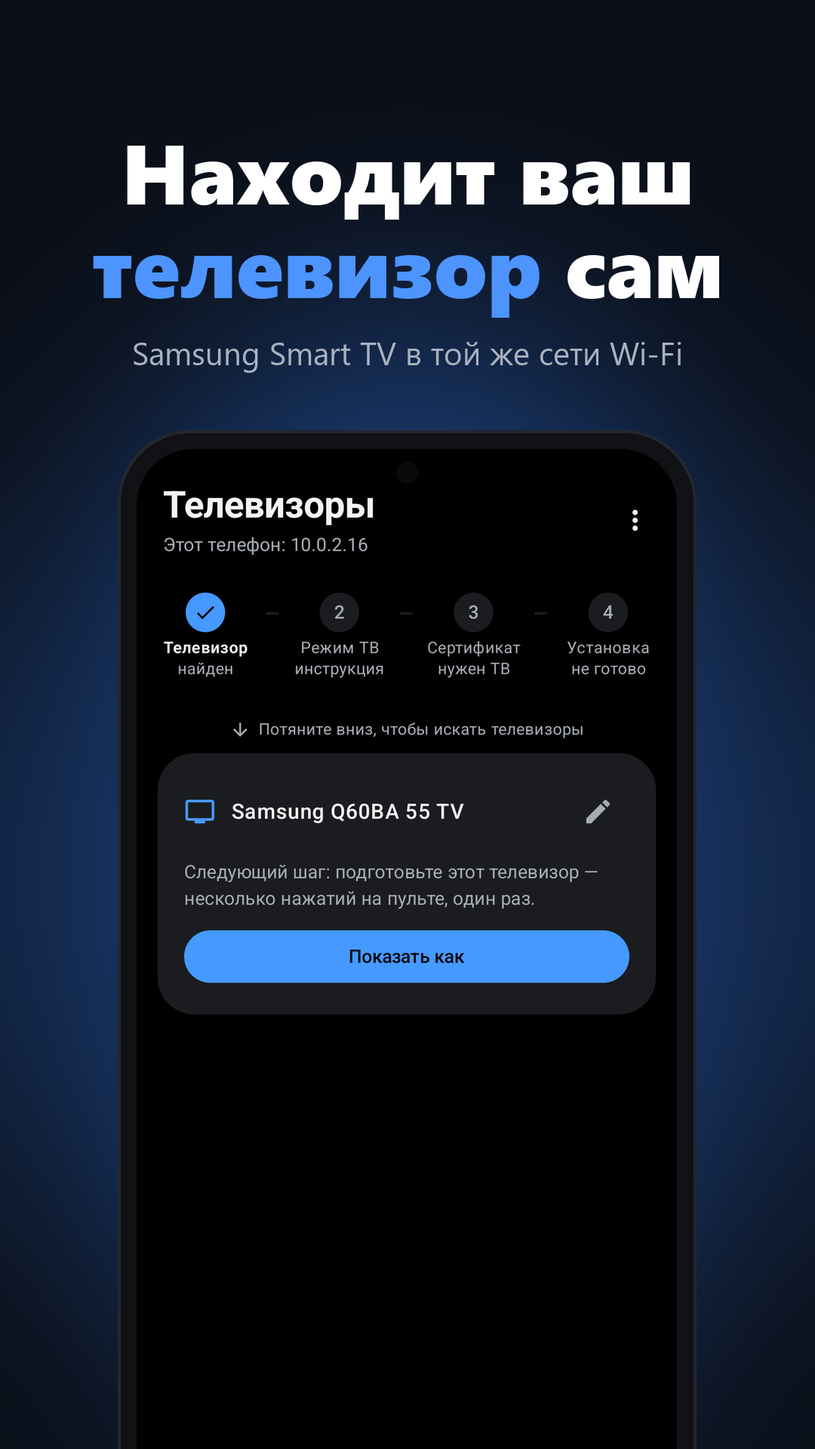
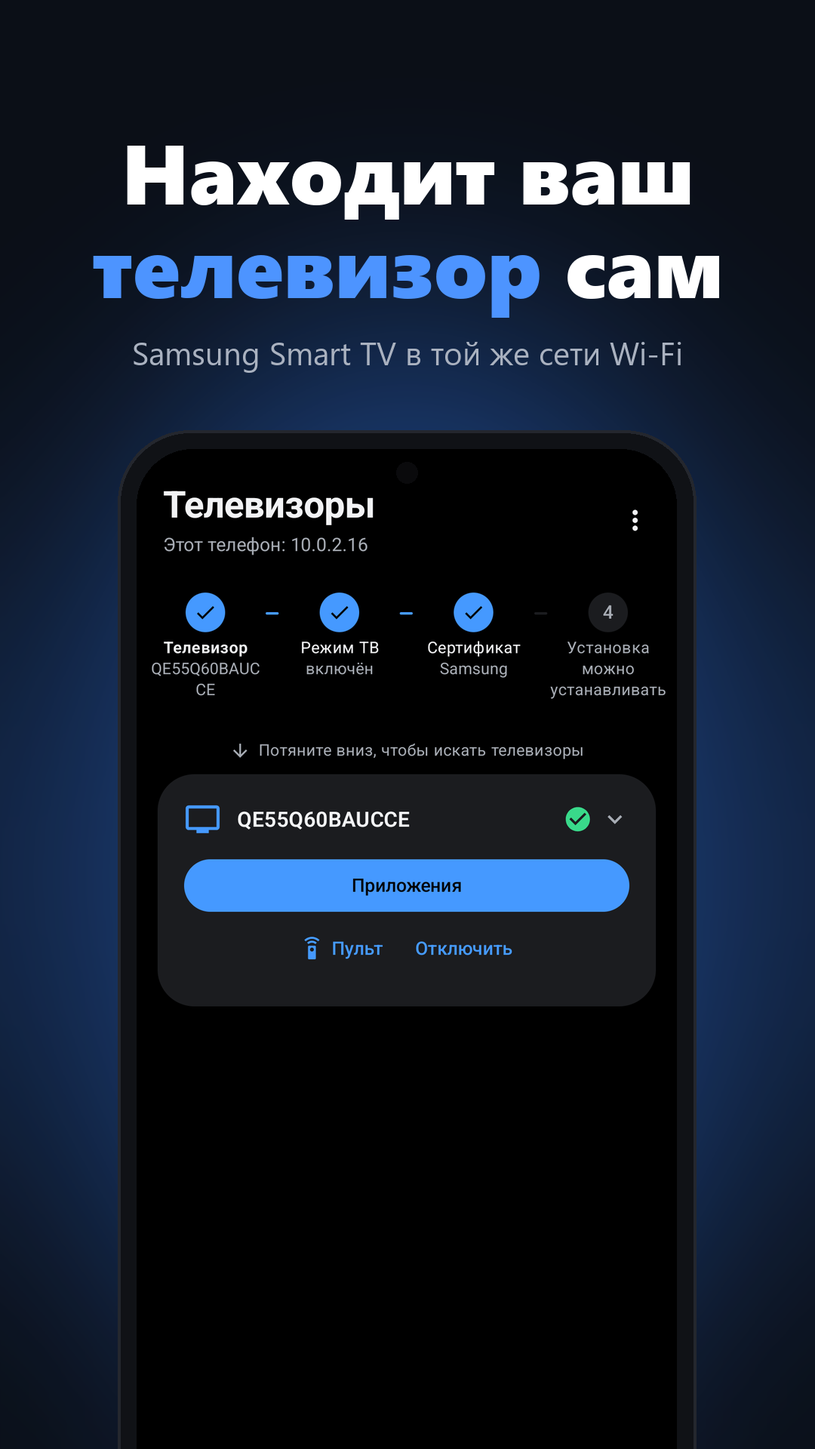
Витрина 2.2.6: новые скриншоты и описание
- Новые карточки (9 шт.) на русском, английском и узбекском: docs/screenshots/, en/, uz/
- README.md и README.ru.md: возможности версии 2.2.6, сетка из 9 скриншотов, ссылка на O'zbekcha
- README.uz.md — описание на узбекском
- Сайт docs/index.html: новые карточки, список возможностей, раздел O'zbekcha
- docs/social.png — превью с актуальным экраном приложения

diff --git a/docs/index.html b/docs/index.html
@@ -4,7 +4,7 @@
 <meta charset="utf-8">
 <meta name="viewport" content="width=device-width, initial-scale=1">
 <title>TV Installer — install apps on Samsung Smart TV from your phone</title>
-<meta name="description" content="Free Android app: install .wgt apps (Lampa, Jellyfin, Kodi, Plex, Moonlight…) on Samsung Smart TV (Tizen) from your phone — no PC, no Tizen Studio. Установка приложений на телевизор Samsung с телефона.">
+<meta name="description" content="Free Android app: install .wgt apps (Lampa, Jellyfin, Kodi, Plex, Moonlight…) on Samsung Smart TV (Tizen) from your phone — no PC, no Tizen Studio. Установка приложений на телевизор Samsung с телефона. Samsung televizoriga telefondan ilova o&#39;rnatish.">
 <meta name="keywords" content="Samsung TV install apps, Tizen sideload, install wgt Samsung TV, Tizen Studio alternative, Samsung developer mode, Lampa Samsung, установка приложений на Samsung TV, wgt Tizen">
 <meta property="og:title" content="TV Installer — install apps on Samsung Smart TV from your phone">
 <meta property="og:description" content="No PC, no Tizen Studio. Finds your TV, gets the Samsung certificate and installs .wgt apps.">
@@ -49,30 +49,34 @@
       no PC, no Tizen Studio. Free.</p>
     <a class="btn" href="https://github.com/sunic007/tvinstaller/releases/latest/download/TvInstaller.apk">⬇ Download APK</a>
     <a class="btn ghost" href="https://github.com/sunic007/tvinstaller">GitHub</a>
-    <div class="lang">Android 7.0+ · English &amp; Russian · <a href="#ru" style="color:inherit">Русский ↓</a></div>
+    <div class="lang">Android 7.0+ · English · Русский · O'zbekcha · <a href="#ru" style="color:inherit">Русский ↓</a> · <a href="#uz" style="color:inherit">O'zbekcha ↓</a></div>
   </div>
 </header>
 
 <div class="wrap">
   <div class="shots">
     <img src="screenshots/en/01.png" alt="Finds your TV by itself" loading="lazy">
-    <img src="screenshots/en/02.png" alt="Shows what to press on the TV" loading="lazy">
+    <img src="screenshots/en/02.png" alt="Can&#39;t connect? We&#39;ll help" loading="lazy">
     <img src="screenshots/en/03.png" alt="Certificate just once" loading="lazy">
-    <img src="screenshots/en/04.png" alt="Catalog of 45+ TV apps" loading="lazy">
-    <img src="screenshots/en/05.png" alt="Lampa always fresh" loading="lazy">
-    <img src="screenshots/en/06.png" alt="English and Russian" loading="lazy">
-    <img src="screenshots/en/07.png" alt="All in one place" loading="lazy">
+    <img src="screenshots/en/04.png" alt="Catalog of 40+ TV apps" loading="lazy">
+    <img src="screenshots/en/05.png" alt="Install in one tap" loading="lazy">
+    <img src="screenshots/en/06.png" alt="Your TV apps at hand" loading="lazy">
+    <img src="screenshots/en/07.png" alt="TV remote in your phone" loading="lazy">
+    <img src="screenshots/en/08.png" alt="Lampa always fresh" loading="lazy">
+    <img src="screenshots/en/09.png" alt="Three languages" loading="lazy">
   </div>
 
   <section>
     <h2>What it does</h2>
     <div class="grid">
-      <div class="card"><b>📡 Finds your TV</b><p>Any Samsung Tizen TV on the same Wi‑Fi.</p></div>
-      <div class="card"><b>🎬 Shows what to press</b><p>Animated step-by-step Developer Mode guide, following Samsung's own.</p></div>
-      <div class="card"><b>🔐 Certificate in one tap</b><p>Sign in with your Samsung account once — no PC needed.</p></div>
-      <div class="card"><b>📦 45+ TV apps</b><p>Media centers, players, streaming, IPTV — or your own <code>.wgt</code>.</p></div>
-      <div class="card"><b>🔄 Always up to date</b><p>Lampa comes from its latest GitHub release; the app updates itself too.</p></div>
-      <div class="card"><b>🧾 Install log</b><p>Every step is visible; certificates can be backed up to a file.</p></div>
+      <div class="card"><b>📡 Finds your TV</b><p>Any Samsung Tizen TV on the same Wi‑Fi — and you can use several TVs.</p></div>
+      <div class="card"><b>🩺 “Can't connect?” wizard</b><p>Checks Wi‑Fi, the TV, Developer Mode and the address on the TV step by step, and says what to fix.</p></div>
+      <div class="card"><b>🔐 Certificate just once</b><p>Sign in with your Samsung account — no PC. A reminder before it expires, one-tap renewal, backup and restore.</p></div>
+      <div class="card"><b>📦 40+ TV apps</b><p>Media centers, players, streaming, IPTV, with Recommended picks — or your own <code>.wgt</code>.</p></div>
+      <div class="card"><b>⚡ One tap</b><p>Install with every step visible, then “Open on TV”. Open, Remove and “Update all” in the On TV list.</p></div>
+      <div class="card"><b>🎮 Remote &amp; power on</b><p>A TV remote in your phone, and turning the TV on over the network (Wake-on-LAN).</p></div>
+      <div class="card"><b>🔄 Always up to date</b><p>Lampa comes from its latest GitHub release; TV Installer updates itself without a browser.</p></div>
+      <div class="card"><b>🌐 Three languages</b><p>English, Русский and O'zbekcha — follows your phone or pick one.</p></div>
     </div>
   </section>
 
@@ -89,10 +93,23 @@
     <h2>По-русски</h2>
     <p><b>TV Installer</b> — бесплатное Android-приложение: ставит приложения <code>.wgt</code> на телевизоры Samsung (Tizen)
       прямо с телефона, без компьютера и Tizen Studio. Само находит ТВ, получает сертификат Samsung и устанавливает
-      приложение; анимация показывает, что нажать на пульте. Интерфейс — на русском и английском.</p>
+      приложение; анимация показывает, что нажать на пульте. Мастер «Не подключается?» помогает наладить связь, о продлении
+      сертификата приложение напомнит само. Каталог из 40+ приложений с подборкой «Рекомендуем», «Обновить всё» и
+      «Открыть на ТВ» в одно касание, пульт и включение ТВ с телефона. Интерфейс — на русском, английском и узбекском.</p>
     <p>Главное приложение каталога — <a href="https://github.com/sunic007/lampa-samsung">Lampa для Samsung</a>
       с Telegram-ботом и автообновлением.</p>
     <a class="btn" href="https://github.com/sunic007/tvinstaller/releases/latest/download/TvInstaller.apk">⬇ Скачать APK</a>
+  </section>
+
+  <section class="ru" id="uz" lang="uz">
+    <h2>O'zbekcha</h2>
+    <p><b>TV Installer</b> — bepul Android ilova: Samsung (Tizen) televizorlariga <code>.wgt</code> ilovalarni to'g'ridan-to'g'ri
+      telefondan, kompyuter va Tizen Studio'siz o'rnatadi. Televizorni o'zi topadi, Samsung sertifikatini oladi va ilovani
+      o'rnatadi. «Ulanmayaptimi?» yordamchisi ulanishni sozlashga yordam beradi, sertifikat muddati tugashidan oldin eslatadi.
+      40+ ilovali katalog va «Tavsiya etamiz» to'plami, «Hammasini yangilash» va «TV'da ochish» — bir bosishda; pult va
+      televizorni telefondan yoqish. Interfeys o'zbek, rus va ingliz tillarida.</p>
+    <p><a href="https://github.com/sunic007/tvinstaller/blob/main/README.uz.md">Batafsil — README.uz.md</a></p>
+    <a class="btn" href="https://github.com/sunic007/tvinstaller/releases/latest/download/TvInstaller.apk">⬇ APK'ni yuklab olish</a>
   </section>
 </div>
 
@@ -104,6 +121,8 @@
 <footer>
   <a href="https://github.com/sunic007/tvinstaller">GitHub</a> ·
   <a href="https://github.com/sunic007/tvinstaller/blob/main/CHANGELOG.md">What's new</a> ·
+  <a href="https://github.com/sunic007/tvinstaller/blob/main/README.ru.md">Русский</a> ·
+  <a href="https://github.com/sunic007/tvinstaller/blob/main/README.uz.md">O'zbekcha</a> ·
   <a href="https://github.com/sunic007/lampa-samsung">Lampa for Samsung</a> ·
   <a href="https://sunic007.github.io/tvinstaller/privacy.html">Privacy</a> ·
   <a href="https://github.com/sponsors/sunic007">❤ Sponsor</a>

diff --git a/README.ru.md b/README.ru.md
@@ -1,8 +1,8 @@
 # TV Installer — установка приложений на Samsung Smart TV с телефона
 
-[![Release](https://img.shields.io/github/v/release/sunic007/tvinstaller?label=release&color=3d8bff)](https://github.com/sunic007/tvinstaller/releases/latest) [![Downloads](https://img.shields.io/github/downloads/sunic007/tvinstaller/total?color=2ea043)](https://github.com/sunic007/tvinstaller/releases) ![Android](https://img.shields.io/badge/Android-7.0%2B-3ddc84?logo=android&logoColor=white) ![Tizen TV](https://img.shields.io/badge/Tizen-TV-1428a0) ![Languages](https://img.shields.io/badge/UI-English%20%7C%20Русский-8a63d2)
+[![Release](https://img.shields.io/github/v/release/sunic007/tvinstaller?label=release&color=3d8bff)](https://github.com/sunic007/tvinstaller/releases/latest) [![Downloads](https://img.shields.io/github/downloads/sunic007/tvinstaller/total?color=2ea043)](https://github.com/sunic007/tvinstaller/releases) ![Android](https://img.shields.io/badge/Android-7.0%2B-3ddc84?logo=android&logoColor=white) ![Tizen TV](https://img.shields.io/badge/Tizen-TV-1428a0) ![Languages](https://img.shields.io/badge/UI-English%20%7C%20Русский%20%7C%20O'zbekcha-8a63d2)
 
-[English](README.md) · **Русский**
+[English](README.md) · **Русский** · [O'zbekcha](README.uz.md)
 
 Android-приложение для установки приложений `.wgt` на телевизоры **Samsung (Tizen)** прямо с телефона — без компьютера
 и Tizen Studio. Подписывает пакет само и ставит его на ТВ по Wi-Fi.
@@ -17,21 +17,45 @@ Android-приложение для установки приложений `.wg
 ставит её последнюю версию прямо из релизов GitHub, дальше она обновляется на телевизоре сама.
 
 <p align="center">
-  <img src="docs/screenshots/01.png" width="23%">
-  <img src="docs/screenshots/02.png" width="23%">
-  <img src="docs/screenshots/03.png" width="23%">
-  <img src="docs/screenshots/04.png" width="23%">
+  <img src="docs/screenshots/01.png" width="30%">
+  <img src="docs/screenshots/02.png" width="30%">
+  <img src="docs/screenshots/03.png" width="30%">
 </p>
 <p align="center">
-  <img src="docs/screenshots/05.png" width="23%">
-  <img src="docs/screenshots/06.png" width="23%">
-  <img src="docs/screenshots/07.png" width="23%">
+  <img src="docs/screenshots/04.png" width="30%">
+  <img src="docs/screenshots/05.png" width="30%">
+  <img src="docs/screenshots/06.png" width="30%">
 </p>
+<p align="center">
+  <img src="docs/screenshots/07.png" width="30%">
+  <img src="docs/screenshots/08.png" width="30%">
+  <img src="docs/screenshots/09.png" width="30%">
+</p>
+
+## Возможности
+
+- **Сам находит телевизор** в той же сети Wi-Fi; можно работать с несколькими ТВ.
+- **Мастер «Не подключается?»** по шагам проверяет Wi-Fi, телевизор, режим разработчика и адрес, указанный на ТВ, и
+  прямо говорит, если ТВ настроен на другое устройство (ставить приложения на Samsung может только один телефон или
+  компьютер за раз).
+- **Анимация по шагам**: что нажать на пульте, чтобы включить режим разработчика, — как в инструкции Samsung.
+- **Сертификат Samsung один раз** — вход в аккаунт Samsung, без компьютера и Tizen Studio. За месяц до окончания
+  придёт напоминание, продление — в одно нажатие; есть резервная копия и **восстановление из неё**.
+- **Каталог из 40+ приложений** — медиатеки, плееры, стриминг, IPTV — и подборка **«Рекомендуем»**; можно поставить
+  и свой `.wgt` из файла или по ссылке. Для вариантов одного приложения
+  (сборки Jellyfin, Moonlight) объяснено, чем они отличаются.
+- **Установка в одно касание**, каждый шаг виден, потом — **«Открыть на ТВ»**. В списке **«На ТВ»** — **«Открыть /
+  Удалить»** и **«Обновить всё»**; раз в день приходит уведомление, если вышли обновления.
+- **Пульт** в телефоне и **включение телевизора с телефона** (Wake-on-LAN).
+- **[Lampa для Samsung](https://github.com/sunic007/lampa-samsung)** ставится из последнего релиза на GitHub и дальше
+  обновляется на телевизоре сама.
+- **Самообновление без браузера**: приложение само скачивает новую версию, проверяет её и открывает установку Android.
+- **Три языка**: русский, English, O'zbekcha.
 
 ## Что нужно
 
-- Телефон на Android и телевизор Samsung с Tizen — в одной Wi-Fi сети.
-- Файл `.wgt` — например, [Lampa для Samsung](https://github.com/sunic007/lampa-samsung/releases/latest/download/samsung.wgt).
+- Телефон на Android 7.0+ и телевизор Samsung с Tizen — в одной Wi-Fi сети (не гостевой).
+- Бесплатный аккаунт Samsung (для сертификата установки).
 
 ## Как установить приложение на ТВ
 
@@ -41,17 +65,20 @@ Android-приложение для установки приложений `.wg
    Перезагрузите телевизор (кнопку питания держать ~2 секунды). В приложении это показано анимацией по шагам.
 3. **Установите TV Installer** на телефон: скачайте APK и откройте его (Android попросит разрешить установку из
    этого источника).
-4. В TV Installer выберите **телевизор** и **файл `.wgt`** — приложение подпишет пакет и установит его.
+4. В TV Installer выберите **телевизор**, один раз войдите в **Samsung** за сертификатом и выберите приложение из
+   каталога или свой **файл `.wgt`** — TV Installer подпишет пакет и установит его.
 5. Новые версии ставятся поверх старых, настройки приложения на ТВ сохраняются.
 
 ## Частые вопросы
 
-**ТВ не находится.** Проверьте, что телефон и ТВ в одной сети, а в режиме разработчика на ТВ указан IP именно
+**ТВ не находится или не подключается.** Откройте меню ⋮ → «Не подключается?» — мастер проверит всё по
+шагам. Проверьте также, что телефон и ТВ в одной сети, а в режиме разработчика на ТВ указан IP именно
 телефона. После смены IP — снова перезагрузите ТВ.
 
 **Ошибка подписи или установки.** Удалите старую версию приложения на ТВ и установите заново.
 
-**Безопасно ли.** Приложение работает только в вашей домашней сети, данные никуда не отправляет — подробнее в
+**Безопасно ли.** С телевизором приложение общается только внутри домашней сети; к Samsung обращается только за
+сертификатом, к GitHub — за приложениями. Подробнее — в
 [политике конфиденциальности](https://sunic007.github.io/tvinstaller/privacy.html).
 
 ## Отказ от ответственности

diff --git a/README.uz.md b/README.uz.md
@@ -1,0 +1,92 @@
+# TV Installer — Samsung Smart TV'ga telefondan ilova o'rnatish
+
+[![Release](https://img.shields.io/github/v/release/sunic007/tvinstaller?label=release&color=3d8bff)](https://github.com/sunic007/tvinstaller/releases/latest) [![Downloads](https://img.shields.io/github/downloads/sunic007/tvinstaller/total?color=2ea043)](https://github.com/sunic007/tvinstaller/releases) ![Android](https://img.shields.io/badge/Android-7.0%2B-3ddc84?logo=android&logoColor=white) ![Tizen TV](https://img.shields.io/badge/Tizen-TV-1428a0)
+
+[English](README.md) · [Русский](README.ru.md) · **O'zbekcha**
+
+**Samsung (Tizen)** televizorlariga `.wgt` ilovalarni to'g'ridan-to'g'ri telefondan o'rnatadigan Android ilova —
+kompyuter va Tizen Studio kerak emas. Televizorni Wi‑Fi tarmog'ida o'zi topadi, Samsung sertifikatini oladi, paketni
+imzolaydi va o'rnatadi.
+
+**⬇ [TvInstaller.apk'ni yuklab olish](https://github.com/sunic007/tvinstaller/releases/latest/download/TvInstaller.apk)** — oxirgi versiya
+· barcha versiyalar — [Releases](https://github.com/sunic007/tvinstaller/releases)
+· yangiliklar — [CHANGELOG.md](CHANGELOG.md)
+· [maxfiylik siyosati](https://sunic007.github.io/tvinstaller/privacy.html)
+· ❤ [loyihani qo'llab-quvvatlash](https://github.com/sponsors/sunic007)
+
+> Ilova **o'zbek, rus va ingliz** tillarida ishlaydi: telefon tiliga moslashadi, tilni Sozlamalar → Язык · Language ·
+> Til bo'limida o'zgartirish mumkin.
+
+<p align="center">
+  <img src="docs/screenshots/uz/01.png" width="30%">
+  <img src="docs/screenshots/uz/02.png" width="30%">
+  <img src="docs/screenshots/uz/03.png" width="30%">
+</p>
+<p align="center">
+  <img src="docs/screenshots/uz/04.png" width="30%">
+  <img src="docs/screenshots/uz/05.png" width="30%">
+  <img src="docs/screenshots/uz/06.png" width="30%">
+</p>
+<p align="center">
+  <img src="docs/screenshots/uz/07.png" width="30%">
+  <img src="docs/screenshots/uz/08.png" width="30%">
+  <img src="docs/screenshots/uz/09.png" width="30%">
+</p>
+
+## Imkoniyatlar
+
+- **Televizorni o'zi topadi** — bir xil Wi‑Fi tarmog'ida; bir nechta televizor bilan ishlash mumkin.
+- **«Ulanmayaptimi?» yordamchisi** Wi‑Fi, televizor, dasturchi rejimi va televizordagi manzilni bosqichma-bosqich
+  tekshiradi. Televizor boshqa qurilmaga sozlangan bo'lsa, buni aniq aytadi (Samsung televizoriga bir vaqtda faqat
+  bitta telefon yoki kompyuter ilova o'rnata oladi).
+- **Sertifikat bir marta olinadi** — Samsung akkaunti orqali, kompyutersiz. Muddati tugashidan bir oy oldin eslatma
+  keladi, yangilash — bir bosishda; zaxira nusxa saqlash va **zaxiradan tiklash** mumkin.
+- **40+ ilovali katalog** — mediatekalar, pleyerlar, striming, IPTV — va **«Tavsiya etamiz»** to'plami. O'zingizning
+  `.wgt` faylingizni yoki havolani ham o'rnatish mumkin.
+- **Bir bosishda o'rnatish**: har bir qadam ko'rinadi, oxirida — **«TV'da ochish»**. **«TV'da»** ro'yxatida —
+  **«Ochish / O'chirish»** va **«Hammasini yangilash»**; yangilanishlar chiqsa, kuniga bir marta bildirishnoma keladi.
+- **Pult telefoningizda** va **televizorni telefondan yoqish** (Wake-on-LAN).
+- **[Lampa for Samsung](https://github.com/sunic007/lampa-samsung)** GitHub'dagi oxirgi relizdan o'rnatiladi va keyin
+  televizorda o'zi yangilanadi.
+- **Brauzersiz o'zini yangilaydi**: yangi versiyani o'zi yuklab oladi, tekshiradi va Android o'rnatuvchisini ochadi.
+
+## Nima kerak
+
+- Android 7.0+ telefon va Tizen'li Samsung Smart TV — bir xil Wi‑Fi tarmog'ida (mehmon tarmog'i emas).
+- Bepul Samsung akkaunti (o'rnatish sertifikati uchun).
+
+## Televizorga ilova qanday o'rnatiladi
+
+1. **Televizorda dasturchi rejimini yoqing:** **Apps** bo'limini oching → pastda **App Settings** → pultda
+   `1 2 3 4 5` ni tering → **Developer mode**'ni **On** qiling, telefon IP manzilini kiriting (TV Installer uni
+   «Televizorlar» ekranining tepasida ko'rsatadi) va **OK** ni bosing.
+2. **Televizorni qayta yoqing:** yoqish tugmasini ~2 soniya bosib turing. Qayta yoqilgandan keyin **App Settings**
+   tepasida **DEVELOP MODE** yozuvi chiqadi.
+3. **TV Installer'ni** telefonga o'rnating: APK'ni yuklab oling va oching (Android bu manbadan o'rnatishga ruxsat
+   so'raydi).
+4. TV Installer'da **televizorni** tanlang, sertifikat uchun bir marta **Samsung**'ga kiring va katalogdan ilova yoki
+   o'z `.wgt` faylingizni tanlang.
+5. Yangi versiyalar eskisining ustidan o'rnatiladi, ilovaning televizordagi sozlamalari saqlanadi.
+
+## Ko'p beriladigan savollar
+
+**Televizor topilmayapti yoki ulanmayapti.** ⋮ menyusi → «Ulanmayaptimi?» — yordamchi hammasini bosqichma-bosqich
+tekshiradi. Telefon va televizor bir tarmoqda ekanini, televizordagi dasturchi rejimida aynan shu telefonning IP manzili
+yozilganini tekshiring. IP o'zgargan bo'lsa, uni qayta kiriting va televizorni qayta yoqing.
+
+**Imzolash yoki o'rnatish xatosi.** Ilovaning eski versiyasini televizordan o'chirib, qaytadan o'rnating.
+
+**Xavfsizmi?** Ilova televizor bilan faqat uy tarmog'ingiz ichida ishlaydi. Samsung'ga faqat sertifikat uchun, GitHub'ga
+esa ilovalarni yuklab olish uchun murojaat qiladi — batafsil [maxfiylik siyosatida](https://sunic007.github.io/tvinstaller/privacy.html).
+
+## Javobgarlikdan voz kechish
+
+TV Installer — mustaqil loyiha, Samsung bilan bog'liq emas va u tomonidan tasdiqlanmagan. Samsung va Tizen — Samsung
+Electronics'ning savdo belgilari. Ilova Samsung'ning Tizen Studio'si kabi sertifikat olish usulidan foydalanadi: siz
+o'z Samsung akkauntingizga kirasiz, sertifikatni televizoringiz uchun Samsung beradi. O'rnatilgan ilovalar uchun
+foydalanuvchi javobgar; ilovaning o'zi hech qanday media kontentni saqlamaydi va taqdim etmaydi.
+
+## Loyihani qo'llab-quvvatlash
+
+TV Installer bepul. Foydali bo'lsa, rivojlanishini **[GitHub Sponsors](https://github.com/sponsors/sunic007)** orqali
+qo'llab-quvvatlashingiz mumkin (ilovada: Sozlamalar → Loyihani qo'llab-quvvatlash).

diff --git a/README.md b/README.md
@@ -1,8 +1,8 @@
 # TV Installer — install apps on Samsung Smart TV from your phone
 
-[![Release](https://img.shields.io/github/v/release/sunic007/tvinstaller?label=release&color=3d8bff)](https://github.com/sunic007/tvinstaller/releases/latest) [![Downloads](https://img.shields.io/github/downloads/sunic007/tvinstaller/total?color=2ea043)](https://github.com/sunic007/tvinstaller/releases) ![Android](https://img.shields.io/badge/Android-7.0%2B-3ddc84?logo=android&logoColor=white) ![Tizen TV](https://img.shields.io/badge/Tizen-TV-1428a0) ![Languages](https://img.shields.io/badge/UI-English%20%7C%20Русский-8a63d2)
+[![Release](https://img.shields.io/github/v/release/sunic007/tvinstaller?label=release&color=3d8bff)](https://github.com/sunic007/tvinstaller/releases/latest) [![Downloads](https://img.shields.io/github/downloads/sunic007/tvinstaller/total?color=2ea043)](https://github.com/sunic007/tvinstaller/releases) ![Android](https://img.shields.io/badge/Android-7.0%2B-3ddc84?logo=android&logoColor=white) ![Tizen TV](https://img.shields.io/badge/Tizen-TV-1428a0) ![Languages](https://img.shields.io/badge/UI-English%20%7C%20Русский%20%7C%20O'zbekcha-8a63d2)
 
-**English** · [Русский](README.ru.md)
+**English** · [Русский](README.ru.md) · [O'zbekcha](README.uz.md)
 
 An Android app that installs `.wgt` apps on **Samsung (Tizen)** Smart TVs straight from your phone — no PC, no
 Tizen Studio. It finds the TV on your Wi‑Fi, gets the Samsung certificate for it, signs the package and installs it.
@@ -13,33 +13,45 @@ Tizen Studio. It finds the TV on your Wi‑Fi, gets the Samsung certificate for 
 · [privacy policy](https://sunic007.github.io/tvinstaller/privacy.html)
 · ❤ [sponsor the project](https://github.com/sponsors/sunic007)
 
-> The app is available in **English and Russian** (follows your phone language; switch in Settings → Language).
+> The app speaks **English, Russian and Uzbek (O'zbekcha)** — it follows your phone language; switch in Settings → Language.
 
 <p align="center">
-  <img src="docs/screenshots/en/01.png" width="23%">
-  <img src="docs/screenshots/en/02.png" width="23%">
-  <img src="docs/screenshots/en/03.png" width="23%">
-  <img src="docs/screenshots/en/04.png" width="23%">
+  <img src="docs/screenshots/en/01.png" width="30%">
+  <img src="docs/screenshots/en/02.png" width="30%">
+  <img src="docs/screenshots/en/03.png" width="30%">
 </p>
 <p align="center">
-  <img src="docs/screenshots/en/05.png" width="23%">
-  <img src="docs/screenshots/en/06.png" width="23%">
-  <img src="docs/screenshots/en/07.png" width="23%">
+  <img src="docs/screenshots/en/04.png" width="30%">
+  <img src="docs/screenshots/en/05.png" width="30%">
+  <img src="docs/screenshots/en/06.png" width="30%">
+</p>
+<p align="center">
+  <img src="docs/screenshots/en/07.png" width="30%">
+  <img src="docs/screenshots/en/08.png" width="30%">
+  <img src="docs/screenshots/en/09.png" width="30%">
 </p>
 
 ## Features
 
-- **Finds your TV automatically** on the same Wi‑Fi network.
+- **Finds your TV automatically** on the same Wi‑Fi network; several TVs are supported.
+- **"Can't connect?" wizard** checks Wi‑Fi, the TV, Developer Mode and the address set on the TV step by step — and
+  tells you clearly when the TV is set up for another device (only one phone or PC can install on a Samsung TV at a time).
 - **Step-by-step animation** of how to enable Developer Mode on the TV, following Samsung's official guide.
-- **Samsung certificate in one tap** — sign in with your Samsung account; no PC or Tizen Studio needed.
-- **Catalog of 45+ TV apps** — media centers, players, streaming, IPTV — or install your own `.wgt` file or link.
+- **Samsung certificate just once** — sign in with your Samsung account; no PC or Tizen Studio. A reminder comes a
+  month before it expires, renewal is one tap, and certificates can be backed up and **restored from a backup**.
+- **Catalog of 40+ TV apps** — media centers, players, streaming, IPTV — with **Recommended** starter picks; or install
+  your own `.wgt` file or link. Variants of one app (Jellyfin, Moonlight builds) are explained.
+- **One tap to install**, every step visible, then **"Open on TV"**. The **On TV** list has **Open / Remove** and
+  **Update all**; a daily notification tells you when updates are out.
+- **TV remote** in the phone and **turning the TV on** from the phone (Wake-on-LAN).
 - **[Lampa for Samsung](https://github.com/sunic007/lampa-samsung)** is installed straight from its latest GitHub
   release and then keeps itself up to date on the TV.
-- **Install log** — every step is visible; certificates can be backed up to a file.
+- **Updates itself without a browser**: downloads its new version, verifies it and opens Android's installer.
+- **Three languages**: English, Русский, O'zbekcha.
 
 ## Requirements
 
-- An Android phone and a Samsung Smart TV with Tizen, on the same Wi‑Fi network (not a guest network).
+- An Android 7.0+ phone and a Samsung Smart TV with Tizen, on the same Wi‑Fi network (not a guest network).
 - A free Samsung account (for the installation certificate).
 
 ## How to install an app on the TV
@@ -58,7 +70,8 @@ Tizen Studio. It finds the TV on your Wi‑Fi, gets the Samsung certificate for 
 
 ## FAQ
 
-**The TV is not found.** Make sure the phone and the TV are on the same network and that Developer Mode on the TV has
+**The TV is not found or won't connect.** Open the ⋮ menu → "Can't connect?" — the wizard checks everything step
+by step. Also make sure the phone and the TV are on the same network and that Developer Mode on the TV has
 *this phone's* IP. If the phone's IP changed, enter it again and restart the TV.
 
 **Signing or installation error.** Remove the old version of the app from the TV and install again.
